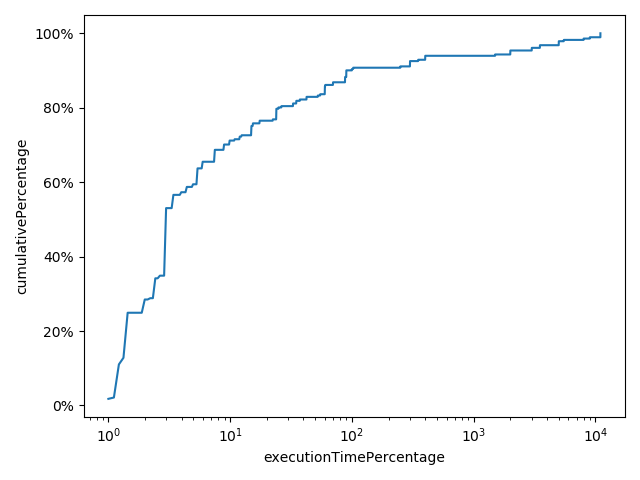
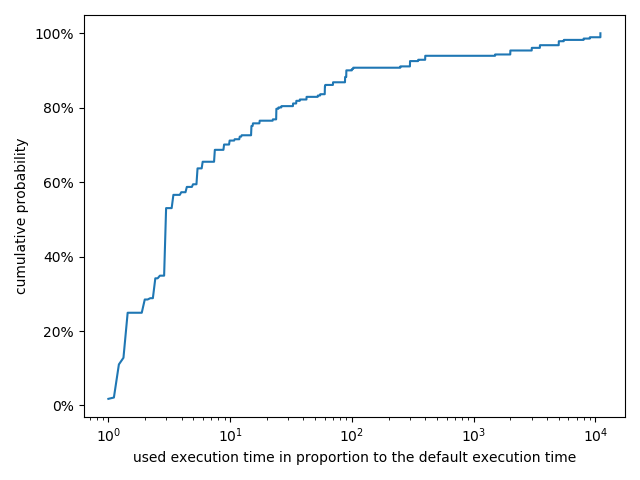
Update axis labels

Changed region(s): [[0.2188, 0.9375, 0.9062, 0.9688], [0.0, 0.2812, 0.0625, 0.625]]

diff --git a/RQ1_Python/execution_time_cumulative_smaller_1.py b/RQ1_Python/execution_time_cumulative_smaller_1.py
@@ -13,8 +13,8 @@ cumulativeAll = np.cumsum(valuesAll)
 plt.plot(base[:-1], cumulativeAll, label="all")
 
 plt.gca().yaxis.set_major_formatter(PercentFormatter(1))
-plt.xlabel('executionTimePercentage')
-plt.ylabel('cumulativePercentage')
+plt.xlabel('used execution time in proportion to the default execution time')
+plt.ylabel('cumulative probability')
 plt.xticks(np.arange(0, 1.1, step=0.1))
 plt.tight_layout()
 #plt.show()

diff --git a/RQ1_Python/execution_time_cumulative_larger_1.py b/RQ1_Python/execution_time_cumulative_larger_1.py
@@ -13,8 +13,8 @@ cumulativeAll = np.cumsum(valuesAll)
 plt.plot(base[:-1], cumulativeAll, label="all")
 
 plt.gca().yaxis.set_major_formatter(PercentFormatter(1))
-plt.xlabel('executionTimePercentage')
-plt.ylabel('cumulativePercentage')
+plt.xlabel('used execution time in proportion to the default execution time')
+plt.ylabel('cumulative probability')
 plt.xscale('log')
 plt.tight_layout()
 #plt.show()

diff --git a/RQ1_Python/measurementWarmupRatio_smaller_1.py b/RQ1_Python/measurementWarmupRatio_smaller_1.py
@@ -15,7 +15,7 @@ cumulativeAll = np.cumsum(smallerAll)
 plt.plot(base[:-1], cumulativeAll, label="all")
 
 plt.gca().yaxis.set_major_formatter(PercentFormatter(1))
-plt.ylabel('percentage')
+plt.ylabel('probability')
 plt.xlabel('measurementWarmupRatio')
 plt.tight_layout()
 #plt.show()

diff --git a/RQ1_Python/measurementWarmupRatio_larger_1.py b/RQ1_Python/measurementWarmupRatio_larger_1.py
@@ -15,7 +15,7 @@ cumulativeAll = np.cumsum(largerAll)
 plt.plot(base[:-1], cumulativeAll, label="all")
 
 plt.gca().yaxis.set_major_formatter(PercentFormatter(1))
-plt.ylabel('percentage')
+plt.ylabel('probability')
 plt.xlabel('measurementWarmupRatio')
 plt.tight_layout()
 #plt.show()
